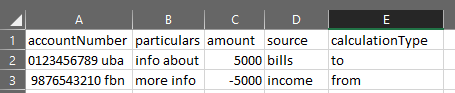
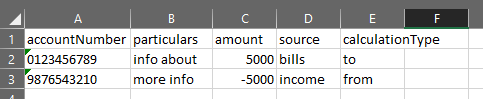
preview doc

diff --git a/src/layouts/general-ledger/csv.js b/src/layouts/general-ledger/csv.js
@@ -316,10 +316,11 @@ function AccountingCSV() {
                     necessary. The first row order does not matter, in essence, you may have name or
                     state or city at any position you want) and your further details in each row
                     should be corresponding to the content of the first row (i.e under
-                    &apos;accountNumber&apos; you should have bank account details e.t.c...). Debits
-                    should be negative numbers while Credits should be positive numbers and there
-                    should be no space at the headers. The Unique code for the file is the name of
-                    the file and can be found in the Document Library (organisation).
+                    &apos;accountNumber&apos; you should have the number registered with the account
+                    e.t.c...). Debits should be negative numbers while Credits should be positive
+                    numbers and there should be no space at the headers. The Unique code for the
+                    file is the name of the file and can be found in the Document Library
+                    (organisation).
                     <br />
                   </MDTypography>
                 </MDBox>
